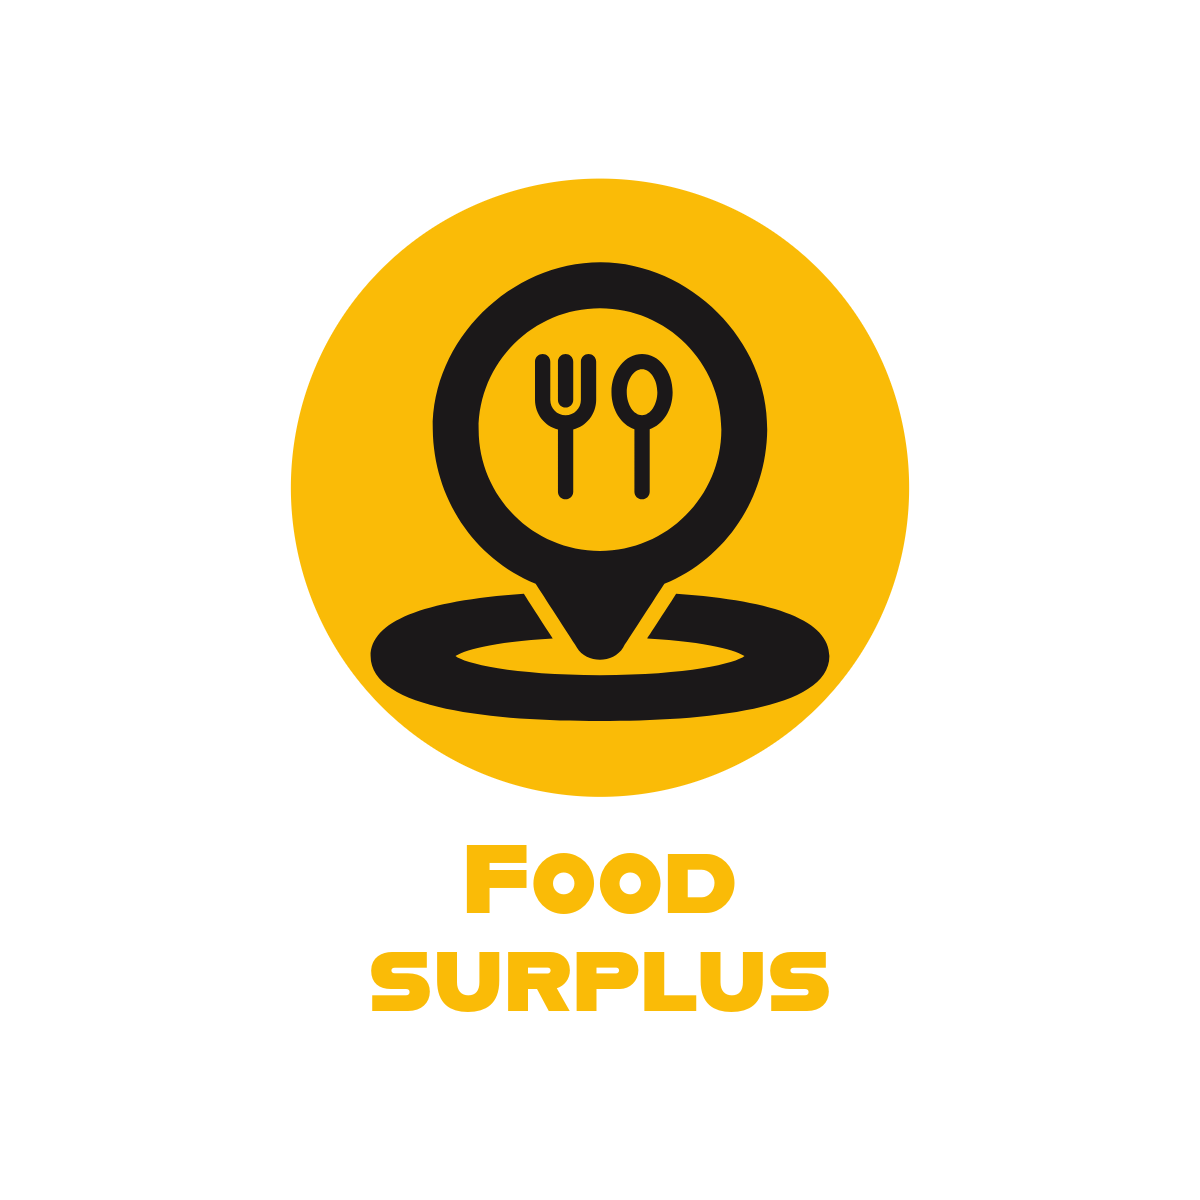
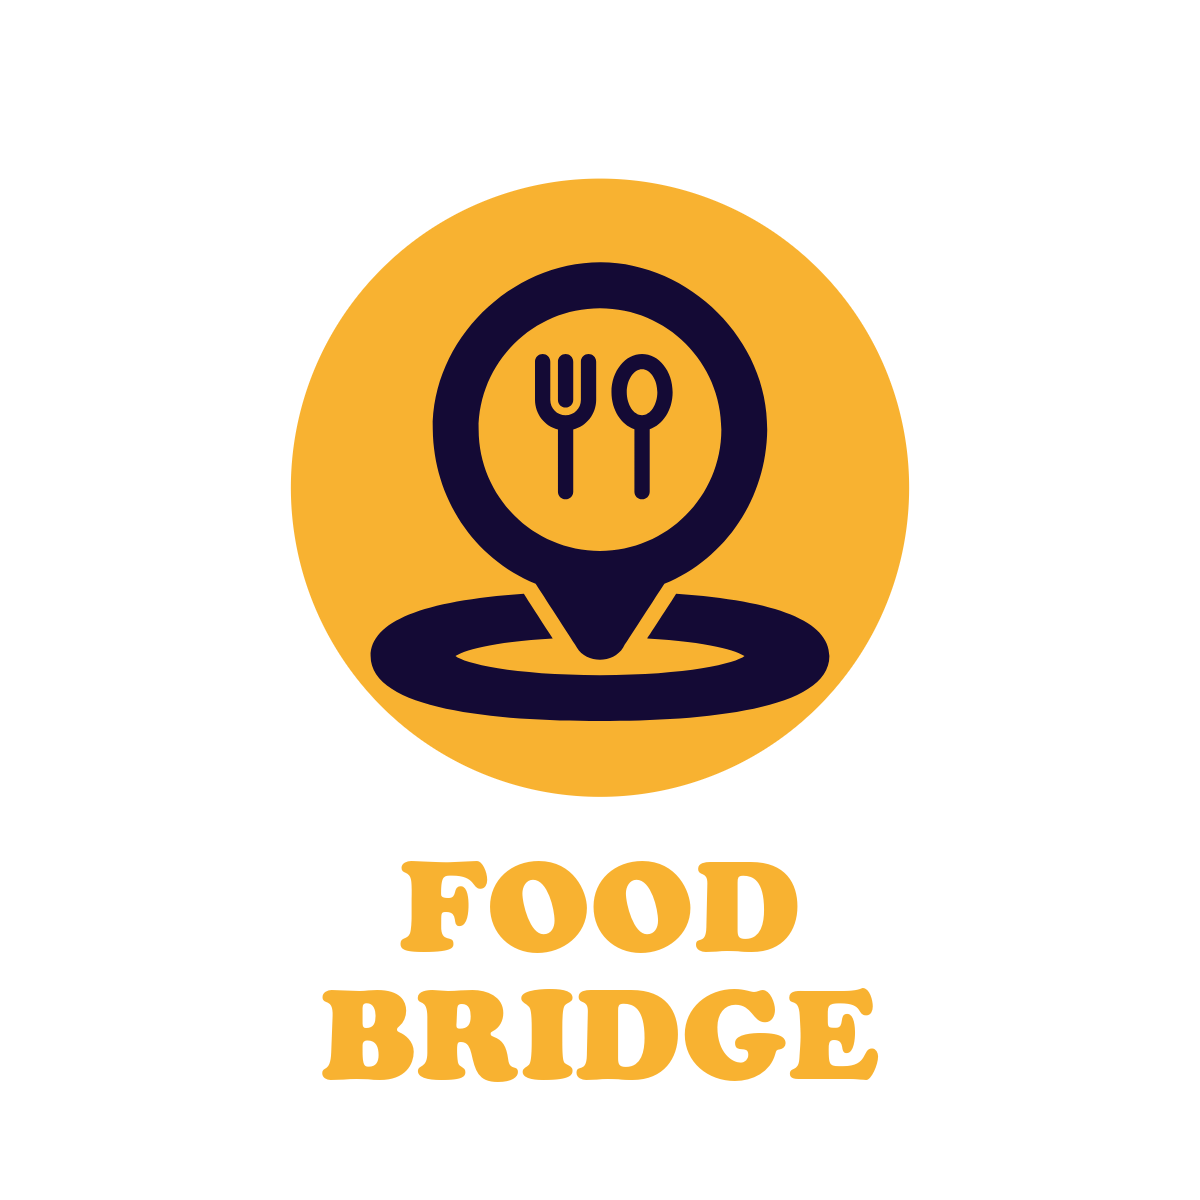
changes for images

Changed region(s): [[0.2158, 0.1233, 0.7708, 0.6783], [0.2467, 0.6783, 0.74, 0.925]]

diff --git a/Front-end/src/app/homepage/homepage.component.css b/Front-end/src/app/homepage/homepage.component.css
@@ -221,7 +221,7 @@
   display: flex;
   min-height: auto;
   align-items: center;
-  padding-top: var(--dl-space-space-sixunits);
+  padding-top: var(--dl-space-space-fiveunits);
   padding-left: var(--dl-space-space-threeunits);
   padding-right: var(--dl-space-space-threeunits);
   flex-direction: column;
@@ -1388,7 +1388,7 @@
   display: flex;
   min-height: auto;
   align-items: center;
-  padding-top: var(--dl-space-space-sixunits);
+  padding-top: var(--dl-space-space-fiveunits);
   padding-left: var(--dl-space-space-threeunits);
   padding-right: var(--dl-space-space-threeunits);
   flex-direction: column;

diff --git a/Front-end/src/app/header/header.component.html b/Front-end/src/app/header/header.component.html
@@ -33,9 +33,14 @@
 
 <div class="navbar home-header mb-5">
   <header data-thq="thq-navbar" class="navbarContainer home-navbar-interactive">
-    <span class="logo" routerLink="/" style="margin-right: 20px"
-      >Food Bridge</span
-    >
+    <span class="logo" routerLink="/" style="margin-right: 20px">
+      <img
+        style="height: 70px"
+        src="../../assets/3fs.png"
+        alt="Food Bridge Logo"
+      />
+      Food Bridge
+    </span>
     <button
       class="btn btn-secondary"
       *ngIf="user.email && user.accountType == 'user'"

diff --git a/Front-end/src/app/homepage/homepage.component.html b/Front-end/src/app/homepage/homepage.component.html
@@ -194,6 +194,13 @@
         <div class="home-hero">
           <div class="heroContainer home-hero1">
             <div class="home-container01">
+              <div class="home-container01">
+                <img
+                  style="height: 170px"
+                  src="../../assets/3fs.png"
+                  alt="Food Bridge Logo"
+                />
+              </div>
               <h1 class="home-hero-heading heading1">
                 Effortless Food Surplus Management
               </h1>

diff --git a/Front-end/src/app/header/header.component.css b/Front-end/src/app/header/header.component.css
@@ -1479,6 +1479,7 @@
   font-weight: 700;
   line-height: 150%;
   text-transform: uppercase;
+  cursor: pointer;
 }
 .overline {
   font-size: 12px;
